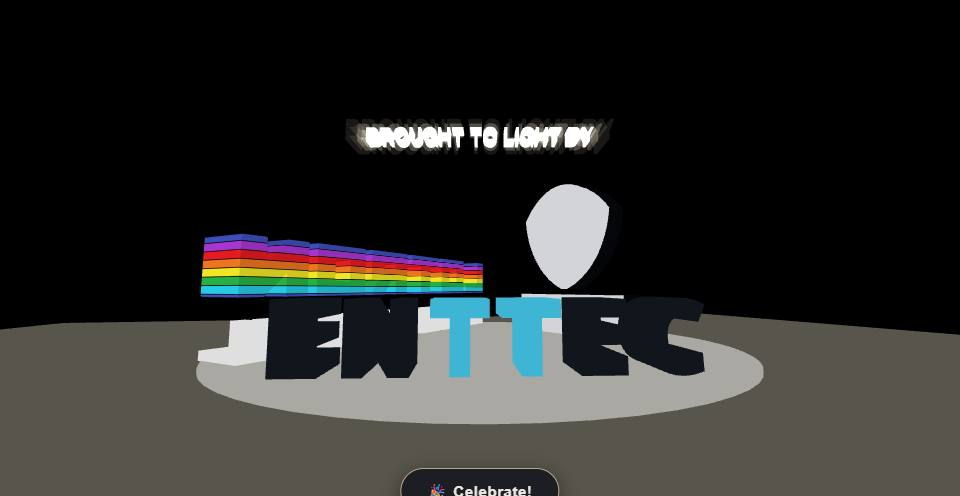
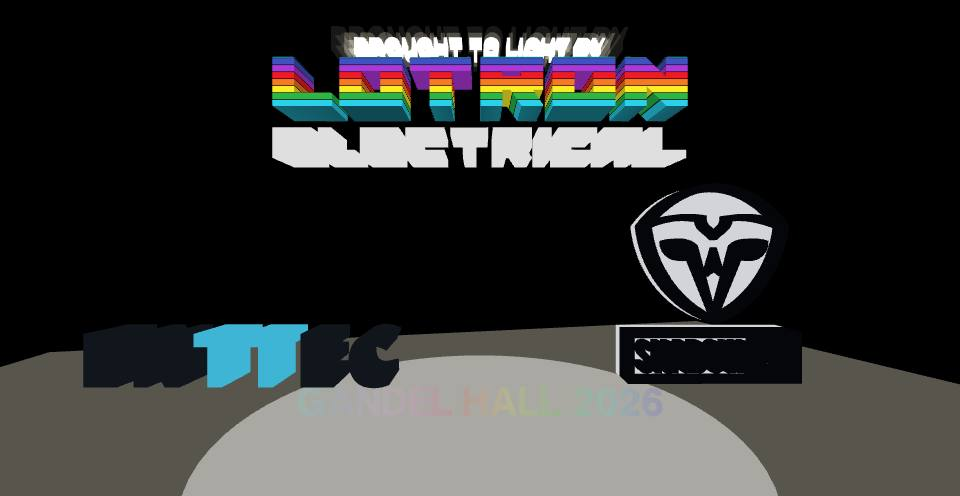
The finale (Lloyd's notes, shot 10): out through a doorway cut in the glass to the sculpture; the three marks rise off the turntable into a triangle facing the hall, Lotron on top, ENTTEC bottom left, Shadow AV bottom right, BROUGHT TO LIGHT BY above; the triangle flattens from 3D to 2D, GANDEL HALL
Claude-Session: https://claude.ai/code/session_01QrhQ7vDknB7Zkn64ZjC69m

diff --git a/index.html b/index.html
@@ -424,18 +424,22 @@ function photoMaterial(src){
   // GLTFLoader lands it as opacity+transparent, and this shader has to write it out again or
   // every pane is an opaque panel, which is what v26 shipped
   uniforms:{map:{value:src.map||null},tint:{value:new THREE.Color(src.map?0xffffff:src.color)},alpha:{value:src.transparent?src.opacity:1.0},house:{value:1},ambient:{value:AMBIENT},day:{value:0},dayGain:{value:dayGainOf(src.name||'')},ledGain:{value:/ceiling-glass/i.test(src.name||'')?LED_GAIN_GLASS:1.0},
-   nLights:{value:0},lightPos:{value:lightPos},lightCol:{value:lightCol},blades:{value:bladeTex},hole:{value:new THREE.Vector4(0,0,0,0)}},   // hole: x,z,radius,on. The void's bowl cuts through the carpet
+   nLights:{value:0},lightPos:{value:lightPos},lightCol:{value:lightCol},blades:{value:bladeTex},hole:{value:new THREE.Vector4(0,0,0,0)},door:{value:new THREE.Vector4(0,0,0,0)},doorC:{value:new THREE.Vector3()},doorU:{value:new THREE.Vector3()},doorN:{value:new THREE.Vector3()}},   // hole: x,z,radius,on. The void's bowl cuts through the carpet
   vertexShader:`varying vec2 vUv; varying vec3 vPos;
    void main(){vUv=uv; vec4 wp=modelMatrix*vec4(position,1.0); vPos=wp.xyz; gl_Position=projectionMatrix*viewMatrix*wp;}`,
   fragmentShader:`uniform sampler2D map; uniform vec3 tint; uniform float house, ambient, ledGain, alpha, day, dayGain; uniform int nLights;
    // two vec4 arrays, not three arrays: lightPos.w is the blade row and lightCol.w the segment
    // height, so the fragment stage stays inside WebGL2's guaranteed 224 uniform vectors
    uniform vec4 lightPos[${MAX_LIGHTS}]; uniform vec4 lightCol[${MAX_LIGHTS}]; uniform sampler2D blades; uniform vec4 hole;
+   // the doorway in the glass (Lloyd's storyboard, shot 10): door = on, half width, height, half
+   // depth; doorC its centre at floor level, doorU along the wall, doorN out of it
+   uniform vec4 door; uniform vec3 doorC; uniform vec3 doorU; uniform vec3 doorN;
    varying vec2 vUv; varying vec3 vPos;
    void main(){
     // the void's bowl sits in a hole in the floor; the carpet does not stop dead at it but thins
     // out over the last 40 cm, the void showing through (Lloyd: smooth and subtle, no line, no glow)
     float hd=distance(vPos.xz,hole.xy); if(hole.w>0.5&&hd<hole.z-0.4)discard;
+    if(door.x>0.5){ vec3 dr=vPos-doorC; if(abs(dot(dr,doorU))<door.y&&dr.y>-0.5&&dr.y<door.z&&abs(dot(dr,doorN))<door.w)discard; }
     float holeA=hole.w>0.5?smoothstep(hole.z-0.4,hole.z,hd):1.0;
     vec3 albedo=texture2D(map,vUv).rgb*tint;
     // flat normal from the position derivatives; it always faces the viewer, which is the
@@ -862,6 +866,11 @@ new GLTFLoader().load('model.glb',g=>{
  g.scene.traverse(o=>{ if(!o.isMesh)return; const ms=Array.isArray(o.material)?o.material:[o.material];
   const out=ms.map(m=>{ if(/column/i.test(m.name||'')){m.roughness=COLUMN_ROUGHNESS; columnMats.push(m); return m;} return photoMaterial(m); });
   o.material=Array.isArray(o.material)?out:out[0];
+  // the doorway (Lloyd's storyboard, shot 10): a 2.6 x 3.2 m opening cut out of the glazing on the
+  // court's axis, where the tour walks out
+  if(/glazing-south/i.test([o.name,...ms.map(m=>m.name||'')].join(' ')))for(const m of out){ if(!m.uniforms||!m.uniforms.door)continue;
+   m.uniforms.door.value.set(1,1.3,3.2,2.0); m.uniforms.doorC.value.copy(COURT.origin).addScaledVector(COURT.u,COURT.uMid).addScaledVector(COURT.n,-COURT.glassOut);
+   m.uniforms.doorU.value.copy(COURT.u); m.uniforms.doorN.value.copy(COURT.n); }
   o.geometry.computeBoundingBox();
   // the floor primitive is the datum the height lever stretches about: it is the one surface
   // that does not move when the hall turns out to be taller than the scan said.
@@ -1788,7 +1797,7 @@ function buildCourt(){
     gl_FragColor=vec4(c*sh,1.0);
    }`, toneMapped:false});
  const whiteMat=new THREE.MeshBasicMaterial({color:0xf4f4f2});
- logo=new THREE.Group(); logo.add(new THREE.Mesh(gL,logoMat)); logo.add(new THREE.Mesh(gE,whiteMat));
+ logo=new THREE.Group(); logo.add(new THREE.Mesh(gL,logoMat)); logo.add(new THREE.Mesh(gE,whiteMat)); logo.userData.H=H; logo.userData.W=W; logo.userData.T=top;
  // the line above the logo. Lloyd, 2026-08-31: "Brought to light by is perfect". Same white as
  // ELECTRICAL, a plain bold face, cap height about a third of LOTRON's, sitting one gap above it.
  // It HOVERS above the sculpture and GLOWS (Lloyd): a bright white face with a soft additive halo
@@ -3184,6 +3193,66 @@ function titleStep(s,at,look,spec){ if(!titles&&!buildCourt.font)return; if(titl
   g.position.copy(at).addScaledVector(fwd,TITLE_D).setY(at.y+0.35); g.rotation.y=Math.atan2(at.x-g.position.x,at.z-g.position.z); }
  if(titles)for(const g of titles.children)if(!on.has(g))g.visible=false; }
 function titlesOff(){ if(titles)for(const g of titles.children)g.visible=false; }
+// THE FINALE (Lloyd's storyboard, shot 10): through the doorway in the glass and out to the
+// sculpture; the three marks rise off the turntable and align into a triangle facing the hall,
+// Lotron on top, ENTTEC bottom left, Shadow AV bottom right, BROUGHT TO LIGHT BY above them; the
+// triangle flattens from 3D to 2D, GANDEL HALL 2026 comes up beneath it in shimmering rainbow,
+// holds, and the picture fades to black. The tour ends there.
+const FIN={walk:8, rise:8, flat:5, hold:4, fade:2};   // seconds per phase
+let finale=null, gandelText=null, gandelMat=null;
+const finaleTotal=()=>FIN.walk+FIN.rise+FIN.flat+FIN.hold+FIN.fade;
+// the triangle in the turntable's own frame (+z faces the hall; seen from the hall, +x is left)
+function finaleLayout(){ const {H,W,T}=logo.userData; const pt=Math.max(...partners.map(p=>p.userData.top));
+ // the year sits at the foot (0.3 up, 0.6 H tall), the partners clear of it, Lotron clear of them
+ const yBot=0.3+0.45*H+1.0, yTop=yBot+pt+1.2, dx=W*0.55; return {H,W,T,yTop,yBot,dx,top:yTop+T,tagY:yTop+T+H*0.5,wTot:1.8*W}; }
+function gandelBuild(L){ if(gandelText||!buildCourt.font)return;
+ gandelMat=new THREE.ShaderMaterial({uniforms:{t:{value:0},op:{value:0},x0:{value:0},x1:{value:1}},transparent:true,depthWrite:false,toneMapped:false,
+  vertexShader:`varying vec3 vP; void main(){ vP=position; gl_Position=projectionMatrix*modelViewMatrix*vec4(position,1.0); }`,
+  // a rainbow running along the letters, sliding slowly, with a soft white glint sweeping over it
+  fragmentShader:`uniform float t,op,x0,x1; varying vec3 vP;
+   vec3 hsv(float h){ vec3 k=vec3(1.0,2.0/3.0,1.0/3.0); vec3 p=abs(fract(vec3(h)+k)*6.0-3.0); return mix(vec3(1.0),clamp(p-1.0,0.0,1.0),0.9); }
+   void main(){ float u=(vP.x-x0)/(x1-x0); vec3 c=hsv(fract(u*1.2-t*0.15)); float g=exp(-pow((u-fract(t*0.25))*6.0,2.0)); gl_FragColor=vec4(mix(c,vec3(1.0),g*0.7),op); }`});
+ const tg=new TextGeometry('GANDEL HALL 2026',{font:buildCourt.font,size:L.H*0.6,height:0.08,curveSegments:3,bevelEnabled:false});
+ tg.computeBoundingBox(); const b=tg.boundingBox; tg.translate(-(b.min.x+b.max.x)/2,0,0); tg.computeBoundingBox();
+ gandelMat.uniforms.x0.value=tg.boundingBox.min.x; gandelMat.uniforms.x1.value=tg.boundingBox.max.x;
+ gandelText=new THREE.Mesh(tg,gandelMat); gandelText.position.set(0,0.3,0); gandelText.visible=false; turntable.add(gandelText); }
+function finaleStart(){ if(finale)finaleEnd(); if(!logo||!turntable||partners.length<2)return; const L=finaleLayout(); gandelBuild(L);
+ const home=o=>({p:o.position.clone(),r:o.rotation.y,s:o.scale.clone()});
+ const f=document.getElementById('flash'); f.style.transition='none'; f.style.background='#000'; f.style.opacity=0;
+ finale={L,homes:new Map([[logo,home(logo)],...partners.map(p=>[p,home(p)])]),yaw:turntable.rotation.y,scale:turntable.scale.x,tagY:tag?tag.userData.baseY:0,f}; }
+// everything back where the court had it (the tour's end, or the tool looping the shot)
+function finaleEnd(){ if(!finale)return; for(const [o,h] of finale.homes){ o.position.copy(h.p); o.rotation.y=h.r; o.scale.copy(h.s); }
+ turntable.rotation.y=finale.yaw; turntable.scale.setScalar(finale.scale); if(tag)tag.userData.baseY=finale.tagY; if(gandelText)gandelText.visible=false; finale=null; }
+// s: seconds into the shot
+function finaleStep(s){ if(!finale)finaleStart(); if(!finale)return; const F=finale, L=F.L, y0=COURT.origin.y;
+ // seen from the hall, -x is the left: ENTTEC there, Shadow AV on the right
+ const targets=new Map([[logo,[0,L.yTop,0]],[partners[0],[-L.dx,L.yBot,0]],[partners[1],[L.dx,L.yBot,0]]]);
+ // the rise: every mark from its place on the ring to its corner of the triangle, turning to face
+ // the hall; the turntable itself settles to face the hall; the line above rises clear of Lotron
+ const rk=smooth(Math.max(0,Math.min(1,(s-FIN.walk)/FIN.rise)));
+ // the eye stays a metre outside the glass at least; where the triangle would not fit from there
+ // (a phone's narrow picture) the whole sculpture shrinks as it rises instead
+ const th=Math.tan(cam.fov*Math.PI/360), D0=Math.max(0.7*L.top/th,0.55*L.wTot/(th*cam.aspect)), Dmax=COURT.logoZ-1.0, sf=Math.min(1,Dmax/D0), D=Math.min(D0,Dmax);
+ turntable.scale.setScalar(F.scale*(1+(sf-1)*rk));
+ for(const [o,h] of F.homes){ const t=targets.get(o); if(!t)continue; o.position.set(h.p.x+(t[0]-h.p.x)*rk,h.p.y+(t[1]-h.p.y)*rk,h.p.z+(t[2]-h.p.z)*rk);
+  let dr=-h.r; dr=Math.atan2(Math.sin(dr),Math.cos(dr)); o.rotation.y=h.r+dr*rk; }
+ { let dy=turntable.userData.yaw0-F.yaw; dy=Math.atan2(Math.sin(dy),Math.cos(dy)); turntable.rotation.y=F.yaw+dy*rk; }
+ if(tag)tag.userData.baseY=F.tagY+(turntable.position.y+L.tagY*sf-F.tagY)*rk;
+ // the flattening: the depth of every mark goes to nothing, and the year comes up beneath
+ const fk=smooth(Math.max(0,Math.min(1,(s-FIN.walk-FIN.rise)/FIN.flat)));
+ for(const [o,h] of F.homes){ if(targets.has(o))o.scale.set(h.s.x,h.s.y,h.s.z*(1-0.99*fk)); }
+ if(gandelText){ gandelText.visible=fk>0; gandelMat.uniforms.op.value=Math.min(1,fk*1.5); gandelMat.uniforms.t.value=s; }
+ // the fade to black at the end
+ const fd=Math.max(0,Math.min(1,(s-FIN.walk-FIN.rise-FIN.flat-FIN.hold)/FIN.fade));
+ if(fd>0)F.f.style.opacity=fd;
+ // the camera: through the doorway at head height to a spot in the court, then back and up to
+ // frame the whole triangle from D out, D from its height and the picture's width
+ const wk=smooth(Math.min(1,s/FIN.walk)), bk=smooth(Math.max(0,Math.min(1,(s-FIN.walk)/FIN.rise)));
+ const cz=COURT.logoZ-D;
+ const a=courtPoint(COURT.uMid,y0+1.7,-4), b=courtPoint(COURT.uMid,y0+1.7,6), c=courtPoint(COURT.uMid,y0+L.top*0.5*sf,cz);
+ const at=s<FIN.walk?a.lerp(b,wk):b.lerp(c,bk);
+ const look=s<FIN.walk?courtPoint(COURT.uMid,y0+3,COURT.logoZ):courtPoint(COURT.uMid,y0+2+(L.top*0.5*sf-2)*bk,COURT.logoZ);
+ poseAt(at,look); }
 function tourSegments(){ const uM=EVENT.wallLen/2, c=EVENT.cols;
  const fly=(h,d0,d1,look)=>glide(EP(4,h,d0),EP(45.5,h,d1),EP(22,look,d0),EP(60,look,d1));
  const hold=(u,h,d,lu,lh,ld)=>k=>{ const w=0.06*Math.sin(k*Math.PI*2); poseAt(EP(u+w*8,h,d),EP(lu,lh,ld)); };
@@ -3224,16 +3293,14 @@ function tourSegments(){ const uM=EVENT.wallLen/2, c=EVENT.cols;
   // Celebrate starts the walk; the camera keeps 3.5 m behind the couple, at their shoulder height
   {celebrate:true,dur:26.5, cam:k=>{ const tw=k*26.5, cp=couple(tw), ahead=couple(Math.min(26,tw+1.5));
     const back=cp.d-3.6, u=tw<=20?uM:cp.u-(cp.u-uM)*0.35; poseAt(EP(u,1.8,Math.max(3.0,back)),EP(ahead.u,1.3,ahead.d)); }},
-  // out through the glass to the sculpture, then a slow half-turn around it
-  {dur:9,  cam:k=>{ const T=court(); const from=EP(26.6,1.9,12.6), to=T.clone().addScaledVector(EVENT.N.inRoom,-14).setY(T.y+3);
-    poseAt(from.lerp(to,smooth(k)), T.clone().setY(T.y+4.5)); }},
-  {dur:22, cam:k=>{ const T=court(); const a=Math.PI+k*Math.PI*0.5, r=15;
-    const f=EVENT.N.inRoom, rgt=EVENT.N.u; const at=T.clone().addScaledVector(f,Math.cos(a)*r).addScaledVector(rgt,Math.sin(a)*r).setY(T.y+3.2);
-    poseAt(at,T.clone().setY(T.y+4)); }},
+  // the finale (Lloyd's storyboard): out through the doorway to the sculpture, the marks rise into
+  // their triangle, flatten, the year beneath, hold, fade; the half-turn round the sculpture is gone
+  {dur:finaleTotal(), cam:k=>finaleStep(k*finaleTotal())},
  ]; }
 function startTour(){ if(tour)return; idle=false; const segs=tourSegments(); tour={segs,i:-1,t0:0,noclip};
  document.getElementById('tourbtn').textContent='Stop tour'; document.getElementById('collide').checked=false; tourNext(performance.now()/1000); }
-function stopTour(){ boom=null; titlesOff(); if(approach){ noclip=approach.noclip; approach=null; } if(!tour)return; noclip=tour.noclip; document.getElementById('collide').checked=!noclip; tour=null; document.getElementById('tourbtn').textContent='Tour'; document.getElementById('celebratefab').hidden=!document.getElementById('event').checked; }
+function stopTour(){ boom=null; titlesOff();
+ if(finale){ finaleEnd(); const f=document.getElementById('flash'); if(+f.style.opacity>0)requestAnimationFrame(()=>requestAnimationFrame(()=>{ f.style.transition='opacity 1.5s ease-in'; f.style.opacity=0; f.addEventListener('transitionend',()=>{ f.style.background='#fff'; },{once:true}); })); } if(approach){ noclip=approach.noclip; approach=null; } if(!tour)return; noclip=tour.noclip; document.getElementById('collide').checked=!noclip; tour=null; document.getElementById('tourbtn').textContent='Tour'; document.getElementById('celebratefab').hidden=!document.getElementById('event').checked; }
 function tourNext(now){ const T=tour; T.i++; if(T.i>=T.segs.length){ stopTour(); return; }
  const sg=T.segs[T.i]; T.t0=now; titlesOff(); if('mode' in sg)setEvent(sg.mode); if(sg.celebrate)fireCelebrate(); sg.cam(0);
  // no Celebrate button while the tour runs: the tour fires its own (Lloyd); stopTour puts it back
@@ -3753,7 +3820,7 @@ cv.addEventListener('touchstart',e=>{ const t=e.changedTouches[0]; tapAt={x:t.cl
 cv.addEventListener('touchend',e=>{ const t=[...e.changedTouches].find(x=>tapAt&&x.identifier===tapAt.id); if(!t)return;
  if(performance.now()-tapAt.t<400&&Math.hypot(t.clientX-tapAt.x,t.clientY-tapAt.y)<10&&portalHit(t.clientX,t.clientY))approachStart(); tapAt=null; });
 
-function frame(now){ portalStep(now/1000); if(tour)tourStep(now/1000); else if(approach)approachStep(now/1000); else if(idle)idleStep(now/1000); if(eventAnim)eventAnim(Math.min(0.1,(now-last)/1000),now/1000); if(wheelchairs.length)updateWheelchairs(Math.min(0.1,(now-last)/1000)); for(const f of fxList)f.mat.uniforms.t.value=now/1000-f.obj.userData.t0; if(confettiMat&&confetti)confettiMat.uniforms.t.value=now/1000-confetti.userData.t0; if(logoMat)logoMat.uniforms.t.value=now/1000; if(logo||partners.length){const dy=Math.min(0.1,(now-last)/1000)*2*Math.PI/45; // one turn every 45 s
+function frame(now){ portalStep(now/1000); if(tour)tourStep(now/1000); else if(approach)approachStep(now/1000); else if(idle)idleStep(now/1000); if(eventAnim)eventAnim(Math.min(0.1,(now-last)/1000),now/1000); if(wheelchairs.length)updateWheelchairs(Math.min(0.1,(now-last)/1000)); for(const f of fxList)f.mat.uniforms.t.value=now/1000-f.obj.userData.t0; if(confettiMat&&confetti)confettiMat.uniforms.t.value=now/1000-confetti.userData.t0; if(logoMat)logoMat.uniforms.t.value=now/1000; if((logo||partners.length)&&!finale){const dy=Math.min(0.1,(now-last)/1000)*2*Math.PI/45; // one turn every 45 s
   if(turntable)turntable.rotation.y+=dy;}
  if(tag)tag.position.y=tag.userData.baseY+0.25*Math.sin(now/1000*0.8); if(dustMat)dustMat.uniforms.t.value=now/1000;
  if(cycleOn){const h=(+document.getElementById('tod').value+Math.min(0.1,(now-last)/1000)*(24/60))%24; applyDay(Math.round(h*100)/100);}const dt=Math.min(0.1,(now-last)/1000); last=now;

diff --git a/tour-storyboard.md b/tour-storyboard.md
@@ -2,7 +2,7 @@
 
 One block per camera path in the tour, in the order they play. Each block has three frames (start, middle, end), the timing, what the camera does, and a **Notes** line for you. Write anything under **Notes**; leave the rest alone and I will read the notes back and change the code to match.
 
-The tour runs straight after the kaleidoscope. Total length about 173 s.
+The tour runs straight after the kaleidoscope. Total length about 174 s.
 
 **How to read the positions.** Every camera point is written as `(u, h, d)` in hall metres:
 - `u` runs along the hall, 0 at the screen-wall end, `uM` is the middle of the hall (about 26).
@@ -53,7 +53,11 @@ Starts where shot 1 ended, `(18.9, 0.9, 4.9)` looking straight down at the carpe
 **Notes:** Make sure the carpet is fully in view and matches the starting point from the end of the last clip. So that the dinner is fully revealed.
 
 Text:
-A space for community
+A space for community.
+
+V2.
+
+the glass walls should be fully frosted here so we can't see the logo sculptures outside
 
 ---
 
@@ -86,6 +90,10 @@ A place to come together
 
 Camera path, do not finish facing a blank wall. It would be better if it panned up and smoothly orbited around to end with a shot high up facing the crowd in the centre of the room
 
+V2.
+
+Fade out at the end
+
 ---
 
 ## 5. Party celebrate
@@ -102,7 +110,13 @@ Hold at `(uM+8, 2.4, 13)`, by the glass, looking back across at `(uM, 2.5, 5)`. 
 
 and celebrate amongst friends
 
-Also, in this clip, the party scene wasn't visible
+Also, in this clip, the party scene wasn't visible.
+
+V2.
+
+Fade in at the start.
+
+Also, the text was blocked by the columns
 
 ---
 
@@ -121,6 +135,9 @@ A half circle round the speaker on the stage `(uM, 1.9, 1.6)`, 9 m out, from `(u
 Text:
 "A space for people to share their stories"
 
+V2.
+Make sure the text isn't blocked by the columns
+
 ---
 
 ## 7. Standing celebrate
@@ -133,7 +150,7 @@ Hold at `(uM-6, 2.3, 13)`, by the glass, looking across at `(uM, 2.0, 6)`.
 |---|---|---|
 | ![](storyboard/seg07a.jpg) | ![](storyboard/seg07b.jpg) | ![](storyboard/seg07c.jpg) |
 
-**Notes:** This clip currently shows no event
+**Notes:** We don't need this clip
 
 ---
 
@@ -148,7 +165,11 @@ Glide from `(uM, 1.7, 14.2)` at the glass to `(uM, 1.6, 5.2)`: straight down the
 | ![](storyboard/seg08a.jpg) | ![](storyboard/seg08b.jpg) | ![](storyboard/seg08c.jpg) |
 
 **Notes:** Text:
-"A place to celebrate love"
+"A place to celebrate love" 
+
+V2.
+
+Make sure the text isn't blocked by columns
 
 ---
 
@@ -166,11 +187,11 @@ The camera follows 3.6 m behind the couple at shoulder height (1.8), looking a l
 
 ---
 
-## 10. Out to the courtyard
+## 10. The finale: out to the courtyard
 
-Duration 9 s. No event change.
+Duration 27 s (walk 8, rise 8, flatten 5, hold 4, fade 2). The tour ends here; the picture fades back in on the free view.
 
-Glide from `(26.6, 1.9, 12.6)` inside the glass out to 14 m in front of the sculpture, 3 m up, looking at the sculpture (4.5 m up it).
+Walks at head height through a doorway cut in the glass on the court's axis, out to 6 m into the court, looking at the sculpture. Then the camera drifts back and up to frame the whole triangle while the three marks rise off the turntable and align facing the hall: Lotron on top, ENTTEC bottom left, Shadow AV bottom right, BROUGHT TO LIGHT BY above them. The triangle flattens from 3D to 2D and GANDEL HALL 2026 comes up beneath it in shimmering rainbow; holds 4 s; fades to black.
 
 | start | middle | end |
 |---|---|---|
@@ -179,20 +200,6 @@ Glide from `(26.6, 1.9, 12.6)` inside the glass out to 14 m in front of the scul
 **Notes:** This should walk through a doorway cut out in the glass.
 
 Then It should be the final shot where all three of the logos rise up from the platform and align themselves into a triangle shape. Lotron on top, enttec bottom left and shadow av bottom right. With the brought to light by text above them, and then slowly it flattens from 3d to 2d and has text "Gandel Hall 2026" at the bottom in shimmering rainbow and then it holds for a few seconds and fades out.
-
----
-
-## 11. Round the sculpture
-
-Duration 22 s. The tour ends here and the camera is handed back.
-
-A slow quarter-turn round the sculpture on a 15 m circle, 3.2 m up, looking at it (4 m up).
-
-| start | middle | end |
-|---|---|---|
-| ![](storyboard/seg11a.jpg) | ![](storyboard/seg11b.jpg) | ![](storyboard/seg11c.jpg) |
-
-**Notes:** this final clip isn't needed
 
 ---
 
